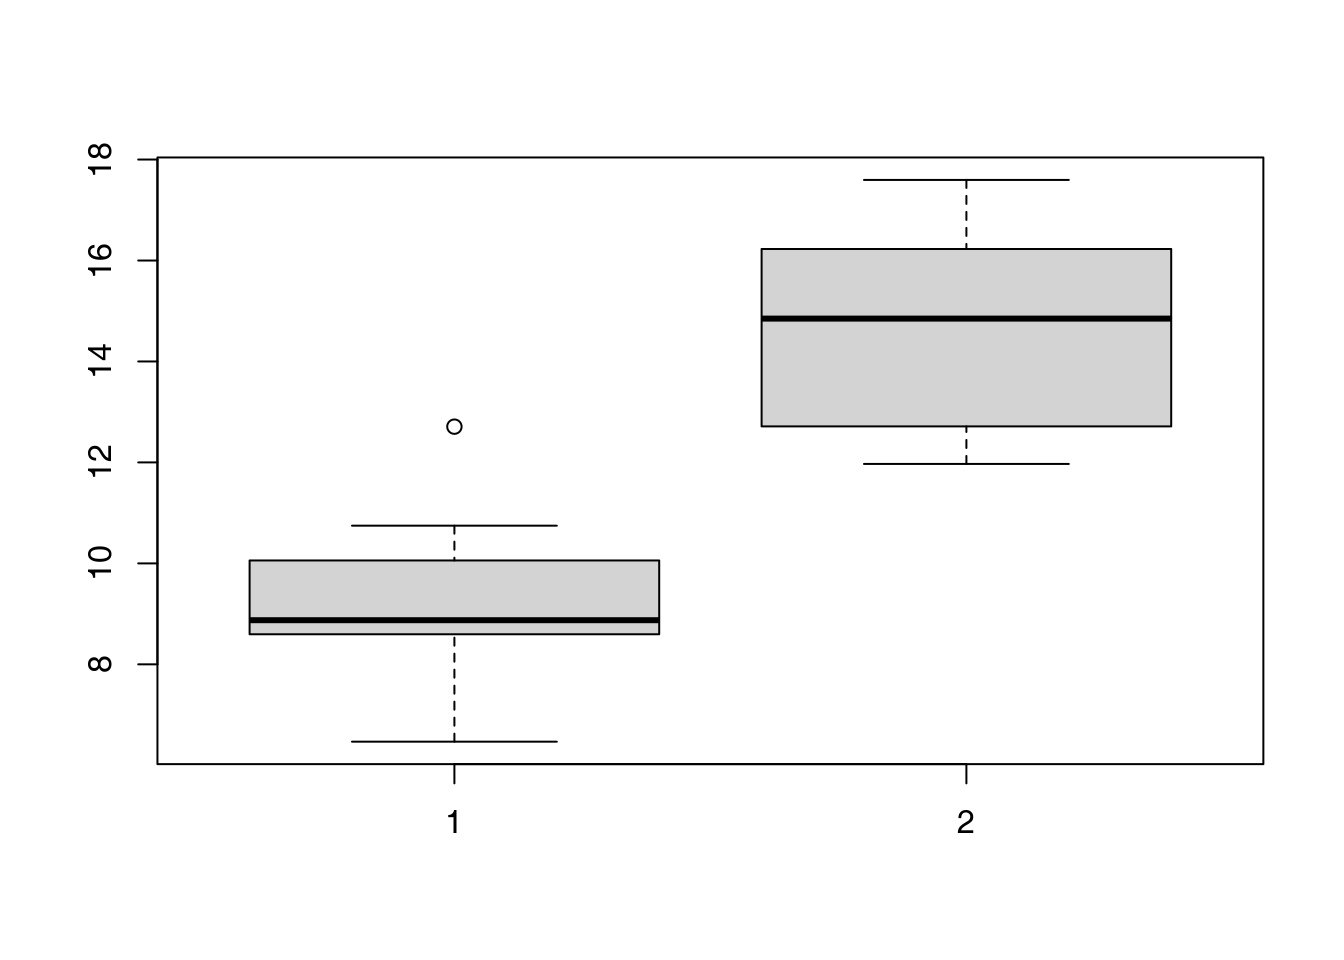
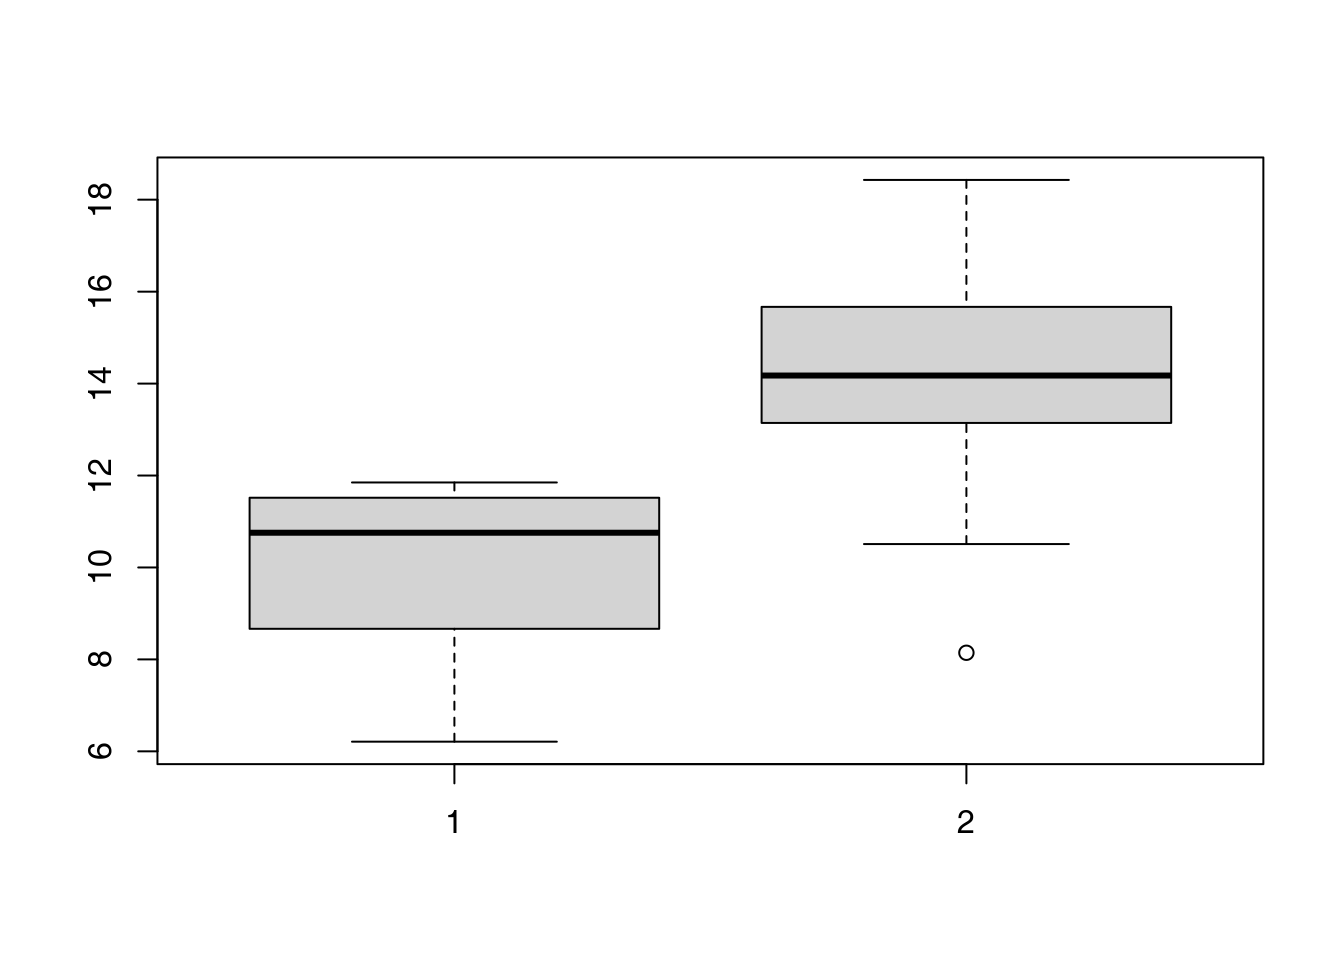
updated all

diff --git a/docs/day3-reading-your-data.html b/docs/day3-reading-your-data.html
@@ -7,7 +7,7 @@
 <meta name="viewport" content="width=device-width, initial-scale=1.0, user-scalable=yes">
 
 
-<title>3&nbsp; Day 3: Reading and Writing Files – A Five Day Crash Course in R</title>
+<title>3&nbsp; Day 3: Reading and Writing Files – Five days of R</title>
 <style>
 code{white-space: pre-wrap;}
 span.smallcaps{font-variant: small-caps;}
@@ -131,7 +131,7 @@ pre > code.sourceCode > span > a:first-child::before { text-decoration: underlin
   <nav id="quarto-sidebar" class="sidebar collapse collapse-horizontal quarto-sidebar-collapse-item sidebar-navigation floating overflow-auto">
     <div class="pt-lg-2 mt-2 text-left sidebar-header">
     <div class="sidebar-title mb-0 py-0">
-      <a href="./">A Five Day Crash Course in R</a> 
+      <a href="./">Five days of R</a> 
     </div>
       </div>
         <div class="mt-2 flex-shrink-0 align-items-center">
@@ -212,6 +212,7 @@ pre > code.sourceCode > span > a:first-child::before { text-decoration: underlin
   <li><a href="#diagnosing-and-cleaning-data" id="toc-diagnosing-and-cleaning-data" class="nav-link" data-scroll-target="#diagnosing-and-cleaning-data"><span class="header-section-number">3.3</span> Diagnosing and cleaning data</a>
   <ul class="collapse">
   <li><a href="#diagnosing-datasets" id="toc-diagnosing-datasets" class="nav-link" data-scroll-target="#diagnosing-datasets"><span class="header-section-number">3.3.1</span> Diagnosing datasets</a></li>
+  <li><a href="#using-colordf-to-diagnose-datasets" id="toc-using-colordf-to-diagnose-datasets" class="nav-link" data-scroll-target="#using-colordf-to-diagnose-datasets"><span class="header-section-number">3.3.2</span> Using colorDF to diagnose datasets</a></li>
   </ul></li>
   <li><a href="#review" id="toc-review" class="nav-link" data-scroll-target="#review"><span class="header-section-number">3.4</span> Review</a></li>
   </ul>
@@ -530,10 +531,13 @@ Remember!
 </div>
 </div>
 <p>If you view this file (or if you use the RStudio data import feature), you will notice that the actual data in this file starts on line 5; the first 4 lines contain the text “Lots of people simply cannot resist writing some notes at the top of their spreadsheets or merging cells”. To skip these lines, we need to use an argument to the <code>read_excel</code> function. If you look up the help file for the function, you will find the following line:</p>
-<p>|skip | Minimum number of rows to skip before reading anything, be it column names or data. Leading empty rows are automatically skipped, so this is a lower bound. Ignored if range is given.|</p>
+<pre><code>skip    Minimum number of rows to skip before reading anything,
+        be it column names or data. Leading empty rows are 
+        automatically skipped, so this is a lower bound. Ignored
+        if range is given.</code></pre>
 <p>Therefore, we can modify the code above to skip the first four lines:</p>
 <div class="cell">
-<div class="sourceCode cell-code" id="cb11"><pre class="sourceCode numberSource r number-lines code-with-copy"><code class="sourceCode r"><span id="cb11-1"><a href="#cb11-1"></a>deaths <span class="ot">&lt;-</span> <span class="fu">read_excel</span>(fn, <span class="at">skip=</span><span class="dv">4</span>)</span></code><button title="Copy to Clipboard" class="code-copy-button"><i class="bi"></i></button></pre></div>
+<div class="sourceCode cell-code" id="cb12"><pre class="sourceCode numberSource r number-lines code-with-copy"><code class="sourceCode r"><span id="cb12-1"><a href="#cb12-1"></a>deaths <span class="ot">&lt;-</span> <span class="fu">read_excel</span>(fn, <span class="at">skip=</span><span class="dv">4</span>)</span></code><button title="Copy to Clipboard" class="code-copy-button"><i class="bi"></i></button></pre></div>
 </div>
 <div class="callout callout-style-simple callout-caution no-icon">
 <div class="callout-body d-flex">
@@ -555,13 +559,14 @@ Remember!
 <h3 data-number="3.3.1" class="anchored" data-anchor-id="diagnosing-datasets"><span class="header-section-number">3.3.1</span> Diagnosing datasets</h3>
 <p>Congratulations! You are now proficient in reading data into R. Believe me or not, this alone is an important step forward – many who try their hand at R get stuck at this point.</p>
 <p>However, reading data is only the first step. In most of the cases, the data requires some treatment: cleaning, transformation, filtering etc. In many projects that I have worked on as a bioinformatician, data import, diagnosis and cleaning took up the majority of time spent on the project. Unfortunately, this is necessary before any real fun with the data can start.</p>
-<p>Let us examine the file “iris.csv” that you have just read. The dataset comes from</p>
+<p>Let us examine the file “iris.csv” that you have just read. The dataset comes from a famous paper by Ronald Fisher, who used it to demonstrate his newly developed method called linear discriminant analysis – an early machine learning algorithm, if you will. The dataset contains measurements of 150 flowers of three species of irises: <em>Iris setosa</em>, <em>Iris versicolor</em> and <em>Iris virginica</em>. The measurements are the sepal and petal length and width, four measurements in total. Each row consists of these four measurements, plus a column which contains the species name.</p>
+<p>I have doctored the file to mimick typical problems with imported data, especially in clinical trial settings. Humans who enter data make errors, this is normal and expected, all of us do. Before we analyse them, we need to correct them. Before we correct them, we need to <em>find</em> them.</p>
 <p>First, note that when you read the data using <code>read_csv</code>, the function conveniently shows what types of data were assigned to each column:</p>
 <div class="cell">
-<div class="sourceCode cell-code" id="cb12"><pre class="sourceCode numberSource r number-lines code-with-copy"><code class="sourceCode r"><span id="cb12-1"><a href="#cb12-1"></a>iris_data <span class="ot">&lt;-</span> <span class="fu">read_csv</span>(<span class="st">"Datasets/iris.csv"</span>)</span></code><button title="Copy to Clipboard" class="code-copy-button"><i class="bi"></i></button></pre></div>
+<div class="sourceCode cell-code" id="cb13"><pre class="sourceCode numberSource r number-lines code-with-copy"><code class="sourceCode r"><span id="cb13-1"><a href="#cb13-1"></a>iris_data <span class="ot">&lt;-</span> <span class="fu">read_csv</span>(<span class="st">"Datasets/iris.csv"</span>)</span></code><button title="Copy to Clipboard" class="code-copy-button"><i class="bi"></i></button></pre></div>
 <div class="cell-output cell-output-stderr">
 <pre><code>Rows: 150 Columns: 5
-── Column specification ──────────────────────────────────────────────────────────────────────────────────────────────────────────────────────────────────────────────────
+── Column specification ────────────────────────────────────────────────────────
 Delimiter: ","
 chr (3): Sepal Length, Petal?Length, Species
 dbl (2): Sepal Width, Petal.Width
@@ -570,6 +575,89 @@ dbl (2): Sepal Width, Petal.Width
 ℹ Specify the column types or set `show_col_types = FALSE` to quiet this message.</code></pre>
 </div>
 </div>
+<p>This should already ring some alarm bells. First, it looks like the columns are not consistently named: we have <code>Sepal Length</code> and <code>Petal?Length</code>, and also <code>Petal.Width</code>.</p>
+<p>Secondly, we would expect that the measurements are imported as numbers. However, both sepal and petal lengths are imported as characters. We can confirm this by using the <code>class</code> function:</p>
+<div class="cell">
+<div class="sourceCode cell-code" id="cb15"><pre class="sourceCode numberSource r number-lines code-with-copy"><code class="sourceCode r"><span id="cb15-1"><a href="#cb15-1"></a><span class="fu">class</span>(iris_data[[<span class="st">"Sepal Length"</span>]])</span></code><button title="Copy to Clipboard" class="code-copy-button"><i class="bi"></i></button></pre></div>
+<div class="cell-output cell-output-stdout">
+<pre><code>[1] "character"</code></pre>
+</div>
+<div class="sourceCode cell-code" id="cb17"><pre class="sourceCode numberSource r number-lines code-with-copy"><code class="sourceCode r"><span id="cb17-1"><a href="#cb17-1"></a><span class="fu">class</span>(iris_data[[<span class="st">"Sepal Width"</span>]])</span></code><button title="Copy to Clipboard" class="code-copy-button"><i class="bi"></i></button></pre></div>
+<div class="cell-output cell-output-stdout">
+<pre><code>[1] "numeric"</code></pre>
+</div>
+<div class="sourceCode cell-code" id="cb19"><pre class="sourceCode numberSource r number-lines code-with-copy"><code class="sourceCode r"><span id="cb19-1"><a href="#cb19-1"></a><span class="fu">class</span>(iris_data[[<span class="st">"Petal?Length"</span>]])</span></code><button title="Copy to Clipboard" class="code-copy-button"><i class="bi"></i></button></pre></div>
+<div class="cell-output cell-output-stdout">
+<pre><code>[1] "character"</code></pre>
+</div>
+<div class="sourceCode cell-code" id="cb21"><pre class="sourceCode numberSource r number-lines code-with-copy"><code class="sourceCode r"><span id="cb21-1"><a href="#cb21-1"></a><span class="fu">class</span>(iris_data[[<span class="st">"Petal.Width"</span>]])</span></code><button title="Copy to Clipboard" class="code-copy-button"><i class="bi"></i></button></pre></div>
+<div class="cell-output cell-output-stdout">
+<pre><code>[1] "numeric"</code></pre>
+</div>
+</div>
+<div class="callout callout-style-default callout-tip callout-titled">
+<div class="callout-header d-flex align-content-center">
+<div class="callout-icon-container">
+<i class="callout-icon"></i>
+</div>
+<div class="callout-title-container flex-fill">
+<code>class</code> and <code>typeof</code>
+</div>
+</div>
+<div class="callout-body-container callout-body">
+<p>The <code>class</code> function returns the class of an object, which is a higher-level classification of the object. An object can have multiple classes. The <code>typeof</code> function returns the internal type of the object, which is a lower level classification. For example, both tibbles and data frames have the type <code>list</code>, but their classes are different.</p>
+</div>
+</div>
+<p>Note that instead of using <code>iris_data$Sepal Length</code> (which will not work, because there is a space in the column name), we use the double bracket notation. An alternative would be to use quotes: <code>iris_data$'Sepal Length'</code>. This a reason why want to avoid spaces and special characters in column names (in a moment we will show you how to standardize column names). If you use tab-completion with RStudio, the quotes will be inserted automatically.</p>
+<p>Another way how we can diagnose the dataset is to use the <code>str</code> function. This provides a more detailed summary for each column:</p>
+<div class="cell">
+<div class="sourceCode cell-code" id="cb23"><pre class="sourceCode numberSource r number-lines code-with-copy"><code class="sourceCode r"><span id="cb23-1"><a href="#cb23-1"></a><span class="fu">str</span>(iris_data)</span></code><button title="Copy to Clipboard" class="code-copy-button"><i class="bi"></i></button></pre></div>
+<div class="cell-output cell-output-stdout">
+<pre><code>spc_tbl_ [150 × 5] (S3: spec_tbl_df/tbl_df/tbl/data.frame)
+ $ Sepal Length: chr [1:150] "5.1" "4.9" "4.7" "4.6" ...
+ $ Sepal Width : num [1:150] 3.5 3 3.2 3.1 3.6 3.9 3.4 3.4 2.9 3.1 ...
+ $ Petal?Length: chr [1:150] "1.4" "1.4" "1.3" "1.5" ...
+ $ Petal.Width : num [1:150] 0.2 0.2 0.2 0.2 0.2 0.4 0.3 0.2 0.2 0.1 ...
+ $ Species     : chr [1:150] "setosa" "setosa" "setosa" "setosa" ...
+ - attr(*, "spec")=
+  .. cols(
+  ..   `Sepal Length` = col_character(),
+  ..   `Sepal Width` = col_double(),
+  ..   `Petal?Length` = col_character(),
+  ..   Petal.Width = col_double(),
+  ..   Species = col_character()
+  .. )
+ - attr(*, "problems")=&lt;externalptr&gt; </code></pre>
+</div>
+</div>
+</section>
+<section id="using-colordf-to-diagnose-datasets" class="level3" data-number="3.3.2">
+<h3 data-number="3.3.2" class="anchored" data-anchor-id="using-colordf-to-diagnose-datasets"><span class="header-section-number">3.3.2</span> Using colorDF to diagnose datasets</h3>
+<p>I have written a package called <code>colorDF</code> that creates yet another flavor of data frames, which is displayed in the console in color (if you haven’t installed it yet, do so now with <code>install.packages("colorDF")</code>. However, we will only use one convenient function from this data set, <code>summary_colorDF</code>. Because <code>summary_colorDF</code> is too much to type, we will use a shortcut, <code>scdf</code>.</p>
+<div class="cell">
+<div class="sourceCode cell-code" id="cb25"><pre class="sourceCode numberSource r number-lines code-with-copy"><code class="sourceCode r"><span id="cb25-1"><a href="#cb25-1"></a>scdf <span class="ot">&lt;-</span> colorDF<span class="sc">::</span>summary_colorDF</span>
+<span id="cb25-2"><a href="#cb25-2"></a><span class="fu">scdf</span>(iris_data)</span></code><button title="Copy to Clipboard" class="code-copy-button"><i class="bi"></i></button></pre></div>
+<div class="cell-output cell-output-stdout">
+<pre><code># Color data frame (class colorDF) 5 x 5:
+ │Col         │Class│NAs  │unique│Summary                                   
+1│Sepal Length│&lt;chr&gt;│    0│    37│5: 10, 5.1: 9, 6.3: 9, 5.7: 8, 6.7: 8, 5.…
+2│Sepal Width │&lt;dbl&gt;│    0│    25│ 2.00 [ 2.80 &lt; 3.00&gt;  3.38] 36.00         
+3│Petal?Length│&lt;chr&gt;│    0│    44│1.4: 13, 1.5: 13, 4.5: 8, 1.3: 7, 1.6: 7,…
+4│Petal.Width │&lt;dbl&gt;│    0│    22│0.1 [0.3 &lt;1.3&gt; 1.8] 2.5                   
+5│Species     │&lt;chr&gt;│    0│     6│virginica: 46, setosa: 45, versicolor: 42…</code></pre>
+</div>
+</div>
+<p>Above we have created a copy of the <code>summary_colorDF</code> function in the variable <code>scdf</code>. This new variable behaves exactly like the original and you can use it just as you would use <code>summary_colorDF</code>. The <code>colorDF::</code> prefix is there so that we don’t have to load the <code>colorDF</code> package. Instead we tell R to look for the function directly in the <code>colorDF</code> package.</p>
+<p>This summary function shows more than just the <code>str</code> function. In addition to column types, for character and factor columns it shows the unique values, ordered by their frequency. For numerical values, it shows their non-parametric summary statistics (range, median, quartiles).</p>
+<p>Hm, when you look at the output you might notice one more thing: for the last column, “Species”, <code>summary_colorDF</code> shows that there are six unique values. However, how can that be? We know that there are only three species in this dataset. We can check this using the <code>unique</code> function:</p>
+<div class="cell">
+<div class="sourceCode cell-code" id="cb27"><pre class="sourceCode numberSource r number-lines code-with-copy"><code class="sourceCode r"><span id="cb27-1"><a href="#cb27-1"></a><span class="fu">unique</span>(iris_data[[<span class="st">"Species"</span>]])</span></code><button title="Copy to Clipboard" class="code-copy-button"><i class="bi"></i></button></pre></div>
+<div class="cell-output cell-output-stdout">
+<pre><code>[1] "setosa"     "Setosa"     "versicolor" "Versicolor" "virginica" 
+[6] "Virginica" </code></pre>
+</div>
+</div>
+<p>There it is. Looks like whoever typed the data<a href="#fn2" class="footnote-ref" id="fnref2" role="doc-noteref"><sup>2</sup></a>, sometimes used a lower-case species designation, and sometimes upper-case.</p>
 </section>
 </section>
 <section id="review" class="level2" data-number="3.4">
@@ -587,6 +675,15 @@ dbl (2): Sepal Width, Petal.Width
 <li>Get the current working directory with <code>getwd()</code></li>
 <li>relative and absolute paths</li>
 </ul></li>
+<li>Diagnosing datasets
+<ul>
+<li><code>str</code>, <code>class</code>, <code>typeof</code></li>
+<li><code>summary_colorDF</code></li>
+</ul></li>
+<li>Other
+<ul>
+<li>accessing functions in a package without loading it (<code>colorDF::summary_colorDF</code>)</li>
+</ul></li>
 </ul>
 
 
@@ -595,6 +692,7 @@ dbl (2): Sepal Width, Petal.Width
 <hr>
 <ol>
 <li id="fn1"><p>You can change it using the <code>setwd()</code> function, but avoid doing that. This path leads to madness, trust me on that.<a href="#fnref1" class="footnote-back" role="doc-backlink">↩</a></p></li>
+<li id="fn2"><p>In this case, it was me.<a href="#fnref2" class="footnote-back" role="doc-backlink">↩</a></p></li>
 </ol>
 </section>
 

diff --git a/docs/day2-complex-structures.html b/docs/day2-complex-structures.html
@@ -808,16 +808,16 @@ $age
 [1] 42
 
 $measurements
-[1] 0.6379641 0.4131733 0.4816066 0.8988432 0.3906390</code></pre>
+[1] 0.2536847 0.3608098 0.7842325 0.9418489 0.6641299</code></pre>
 </div>
 <div class="sourceCode cell-code" id="cb84"><pre class="sourceCode numberSource r number-lines code-with-copy"><code class="sourceCode r"><span id="cb84-1"><a href="#cb84-1"></a>patient_data<span class="sc">$</span>measurements[<span class="dv">1</span>]</span></code><button title="Copy to Clipboard" class="code-copy-button"><i class="bi"></i></button></pre></div>
 <div class="cell-output cell-output-stdout">
-<pre><code>[1] 0.6379641</code></pre>
+<pre><code>[1] 0.2536847</code></pre>
 </div>
 <div class="sourceCode cell-code" id="cb86"><pre class="sourceCode numberSource r number-lines code-with-copy"><code class="sourceCode r"><span id="cb86-1"><a href="#cb86-1"></a>patient_data<span class="sc">$</span>measurements[<span class="dv">1</span>] <span class="ot">&lt;-</span> <span class="dv">42</span></span>
 <span id="cb86-2"><a href="#cb86-2"></a>patient_data<span class="sc">$</span>measurements <span class="sc">*</span> <span class="dv">3</span></span></code><button title="Copy to Clipboard" class="code-copy-button"><i class="bi"></i></button></pre></div>
 <div class="cell-output cell-output-stdout">
-<pre><code>[1] 126.000000   1.239520   1.444820   2.696530   1.171917</code></pre>
+<pre><code>[1] 126.000000   1.082429   2.352698   2.825547   1.992390</code></pre>
 </div>
 </div>
 <p>Since the lists are named, there must be a way to access and modify these names. And, of course, there is: the <code>names()</code> function.</p>
@@ -828,6 +828,19 @@ $measurements
 </div>
 <div class="sourceCode cell-code" id="cb90"><pre class="sourceCode numberSource r number-lines code-with-copy"><code class="sourceCode r"><span id="cb90-1"><a href="#cb90-1"></a><span class="fu">names</span>(patient_data) <span class="ot">&lt;-</span> <span class="fu">c</span>(<span class="st">"patient_name"</span>, <span class="st">"patient_age"</span>, <span class="st">"patient_measurements"</span>)</span>
 <span id="cb90-2"><a href="#cb90-2"></a><span class="fu">names</span>(patient_data)[<span class="dv">3</span>] <span class="ot">&lt;-</span> <span class="st">"crp_measurement"</span></span></code><button title="Copy to Clipboard" class="code-copy-button"><i class="bi"></i></button></pre></div>
+</div>
+<div class="callout callout-style-default callout-tip callout-titled">
+<div class="callout-header d-flex align-content-center">
+<div class="callout-icon-container">
+<i class="callout-icon"></i>
+</div>
+<div class="callout-title-container flex-fill">
+Tab completion with lists and data frames
+</div>
+</div>
+<div class="callout-body-container callout-body">
+<p>If you type the name of your data frame variable in a script, the <code>$</code> and press the TAB key, RStudio will show you all the elements of a list (or columns of the data frame) to choose from. No need for tedious typing!</p>
+</div>
 </div>
 </section>
 <section id="lists-as-return-values" class="level3" data-number="2.4.3">
@@ -875,13 +888,13 @@ Boxplot
     Welch Two Sample t-test
 
 data:  group_a and group_b
-t = -6.5406, df = 17.461, p-value = 4.415e-06
+t = -3.5678, df = 15.71, p-value = 0.002633
 alternative hypothesis: true difference in means is not equal to 0
 95 percent confidence interval:
- -7.246881 -3.717248
+ -6.574517 -1.668989
 sample estimates:
 mean of x mean of y 
- 9.191735 14.673799 </code></pre>
+ 9.849202 13.970955 </code></pre>
 </div>
 </div>
 <p>As you can see, the result is a list. However, when we print it to the console, it <em>does not look like one</em>. This is because R has a special function for formatting the results of a t-test<a href="#fn2" class="footnote-ref" id="fnref2" role="doc-noteref"><sup>2</sup></a>, so that it is easier to read.</p>
@@ -889,7 +902,7 @@ mean of x mean of y
 <div class="cell">
 <div class="sourceCode cell-code" id="cb97"><pre class="sourceCode numberSource r number-lines code-with-copy"><code class="sourceCode r"><span id="cb97-1"><a href="#cb97-1"></a>t_test<span class="sc">$</span>p.value</span></code><button title="Copy to Clipboard" class="code-copy-button"><i class="bi"></i></button></pre></div>
 <div class="cell-output cell-output-stdout">
-<pre><code>[1] 4.414877e-06</code></pre>
+<pre><code>[1] 0.002632791</code></pre>
 </div>
 </div>
 </section>

diff --git a/docs/index.html b/docs/index.html
@@ -134,7 +134,7 @@ ul.task-list li input[type="checkbox"] {
         <li class="sidebar-item">
   <div class="sidebar-item-container"> 
   <a href="./day3-reading-your-data.html" class="sidebar-item-text sidebar-link">
- <span class="menu-text"><span class="chapter-number">3</span>&nbsp; <span class="chapter-title">day3-reading-your-data.html</span></span></a>
+ <span class="menu-text"><span class="chapter-number">3</span>&nbsp; <span class="chapter-title">Day 3: Reading and Writing Files</span></span></a>
   </div>
 </li>
         <li class="sidebar-item">

diff --git a/custom.css b/custom.css
@@ -1,0 +1,9 @@
+/* Style the output */
+.cell {
+  border: 1px solid lightgrey;
+  border-radius: 5px;
+  padding: 10px;
+  margin-bottom: 1em;
+  border-left: 5px solid #6ca6ad;  /* Thicker blue left border */
+}
+
